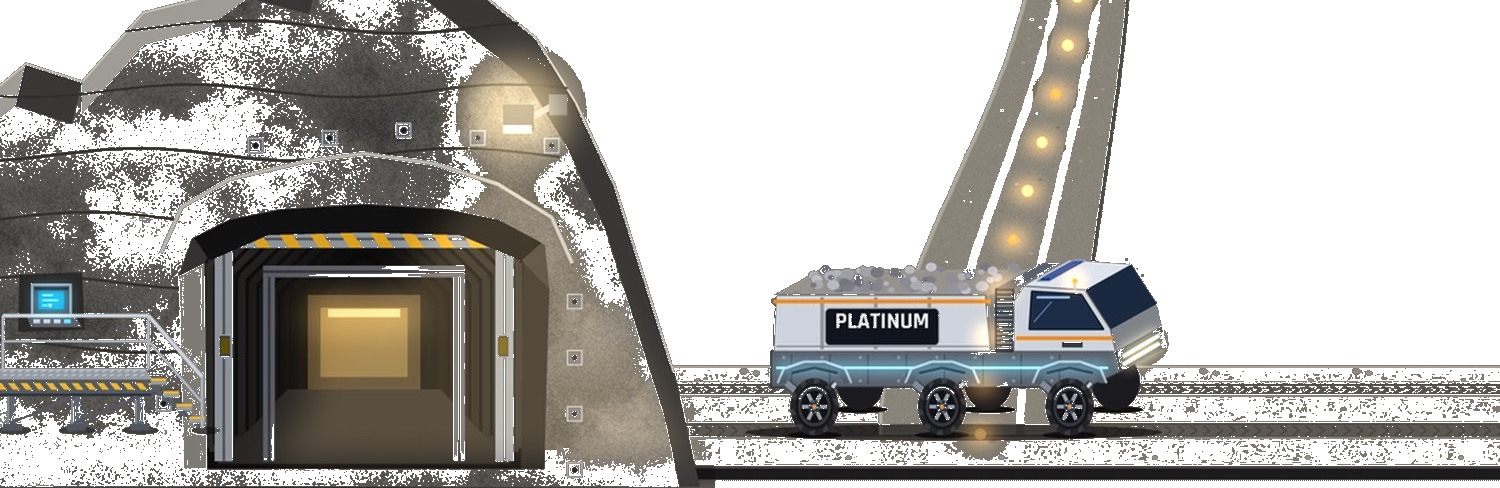
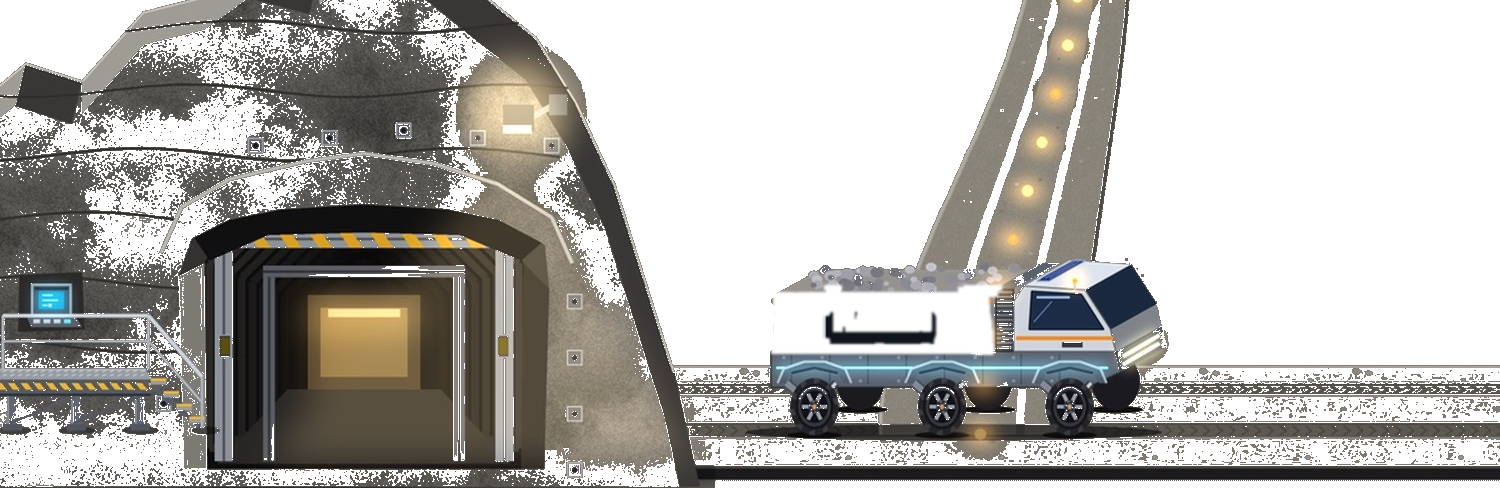
10/13/2026 - planet-stack - 10:40
Animate the mining truck down into the cave, out again, and into the Rover Bay.

Changed region(s): [[0.4907, 0.584, 0.6747, 0.7377]]

diff --git a/preview/game.js b/preview/game.js
@@ -465,7 +465,7 @@ function drawStop(o){const {s,f}=o;curStopA=0;ctx.save();
  ctx.scale(TS,TS);const atRest=s.kind==='dock'?Math.abs(f.a)<0.0004:true;   // no rotation: the static tower cache is valid while panning too
  if(BUILDINGS[s.bi].id==='mine')drawApprovedYard(f);   // behind the tower so the floor stays clear
  if(s.kind!=='dock')foundation();else dockPlinth();
- if(s.kind==='dock')drawDock(s.bi,atRest);else{const n=floorsBuilt(s.bi);if(n===0)drawSite(s.bi);else drawTower(s.bi,n,atRest);if(BUILDINGS[s.bi].id==='mine'&&!(YARD.complete&&YARD.naturalWidth))drawMineForeground(f)}
+ if(s.kind==='dock')drawDock(s.bi,atRest);else{const n=floorsBuilt(s.bi);if(n===0)drawSite(s.bi);else drawTower(s.bi,n,atRest);if(BUILDINGS[s.bi].id==='mine')drawYardTruck()}
  ctx.restore()}
 function label(x,y,txt,col,size){ctx.font=`700 ${size}px Inter,system-ui,-apple-system,sans-serif`;ctx.textAlign='center';ctx.textBaseline='middle';ctx.fillStyle='rgba(0,0,0,.55)';ctx.fillText(txt,x,y+1);ctx.fillStyle=col;ctx.fillText(txt,x,y)}
 function rr(c,x,y,w,h,r){c.beginPath();c.moveTo(x+r,y);c.arcTo(x+w,y,x+w,y+h,r);c.arcTo(x+w,y+h,x,y+h,r);c.arcTo(x,y+h,x,y,r);c.arcTo(x,y,x+w,y,r);c.closePath()}
@@ -665,13 +665,26 @@ function drawMineYard(){
  const lg=ctx.createRadialGradient(FG.tunnel+150,-16,6,FG.tunnel+140,-8,110);
  lg.addColorStop(0,'rgba(255,176,80,.42)');lg.addColorStop(1,'rgba(255,176,80,0)');
  ctx.fillStyle=lg;ctx.fillRect(FG.tunnel+40,-90,210,100)}
-const YARD=new Image();YARD.src='art/moon/mine/scene/mine_yard.png?v=0015';
+const YARD=new Image();YARD.src='art/moon/mine/scene/mine_yard.png?v=1032';
+function yardPt(ix,iy){const w=560,h=w*(YARD.naturalHeight||488)/(YARD.naturalWidth||1500);return{x:-300+ix/1500*w,y:6+iy/(YARD.naturalHeight||488)*h}}
 function drawApprovedYard(f){if(!(YARD.complete&&YARD.naturalWidth))return;
  const par=(f.x-195)*(FG.par-1)/TS;
  ctx.save();ctx.translate(par,0);
  const w=560,h=w*YARD.naturalHeight/YARD.naturalWidth;
- ctx.drawImage(YARD,-300,6,w,h);   // cave left, truck and lamps on the ground, under the floor
+ ctx.drawImage(YARD,-300,6,w,h);   // cave left, lamps on the ground, under the floor. The truck is animated, not baked in.
  ctx.restore()}
+// One truck: leaves the Rover Bay door, drives down into the cave, vanishes, comes back out, drives into the bay.
+function drawYardTruck(){if(!S.f.rover||!S.f.rover.built||!ok('truck_pt_drive'))return;
+ const {n,c}=truckClock(),kind=truckKind(n),M=yardPt(240,360),D={x:72,y:-2};
+ let x,y,sc,al,flip,frn,key;
+ if(c<2.6){const t=easeInOutCubic(c/2.6);x=D.x+(M.x-D.x)*t;y=D.y+(M.y-D.y)*t;sc=0.62+(1-0.62)*t;al=1;flip=1;key='truck_'+kind+'_drive';frn=Math.floor(c*12)%8}
+ else if(c<3.6){const t=c-2.6;x=M.x+6*t;y=M.y+12*t;sc=1-0.65*t;al=1-t;flip=1;key=ok('rover_tunnel_'+kind)?'rover_tunnel_'+kind:'truck_'+kind+'_drive';frn=ok('rover_tunnel_'+kind)?Math.min(7,Math.floor(t*8)):Math.floor(c*12)%8}
+ else if(c<5.0)return;
+ else if(c<6.1){const t=(c-5)/1.1;x=M.x+6*(1-t);y=M.y+12*(1-t);sc=0.35+0.65*t;al=Math.min(1,t*1.4);flip=0;key=ok('rover_tunnel_'+kind)?'rover_tunnel_'+kind:'truck_'+kind+'_drive';frn=ok('rover_tunnel_'+kind)?8+Math.min(7,Math.floor(t*8)):Math.floor(c*12)%8}
+ else{const t=easeInOutCubic(Math.min(1,(c-6.1)/2.1));x=M.x+(D.x-M.x)*t;y=M.y+(D.y-M.y)*t;sc=1-(1-0.62)*t;al=t>0.9?Math.max(0,1-(t-0.9)/0.1):1;flip=0;key='truck_'+kind+'_drive';frn=Math.floor(c*12)%8}
+ ctx.save();ctx.translate(x,y);ctx.scale((flip?-1:1)*sc,sc);ctx.globalAlpha=Math.max(0,al);
+ ctx.fillStyle='rgba(0,0,0,.35)';ctx.beginPath();ctx.ellipse(flip?-40:46,2,28,3.2,0,0,7);ctx.fill();
+ spr(ctx,key,frn,0,0);ctx.restore()}
 function drawMineForeground(f){if(YARD.complete&&YARD.naturalWidth)return;if(!ok('tunnel_back'))return;const par=(f.x-195)*(FG.par-1)/TS,dt=Math.min(0.1,Math.max(0,T-fgLast));fgLast=T;
  ctx.save();ctx.translate(par,FG.y);ctx.scale(FG.s,FG.s);
  let r=null;if(S.f.rover.workers>0&&BAYROUTE)r=roverState();

diff --git a/qa/game.js b/qa/game.js
@@ -465,7 +465,7 @@ function drawStop(o){const {s,f}=o;curStopA=0;ctx.save();
  ctx.scale(TS,TS);const atRest=s.kind==='dock'?Math.abs(f.a)<0.0004:true;   // no rotation: the static tower cache is valid while panning too
  if(BUILDINGS[s.bi].id==='mine')drawApprovedYard(f);   // behind the tower so the floor stays clear
  if(s.kind!=='dock')foundation();else dockPlinth();
- if(s.kind==='dock')drawDock(s.bi,atRest);else{const n=floorsBuilt(s.bi);if(n===0)drawSite(s.bi);else drawTower(s.bi,n,atRest);if(BUILDINGS[s.bi].id==='mine'&&!(YARD.complete&&YARD.naturalWidth))drawMineForeground(f)}
+ if(s.kind==='dock')drawDock(s.bi,atRest);else{const n=floorsBuilt(s.bi);if(n===0)drawSite(s.bi);else drawTower(s.bi,n,atRest);if(BUILDINGS[s.bi].id==='mine')drawYardTruck()}
  ctx.restore()}
 function label(x,y,txt,col,size){ctx.font=`700 ${size}px Inter,system-ui,-apple-system,sans-serif`;ctx.textAlign='center';ctx.textBaseline='middle';ctx.fillStyle='rgba(0,0,0,.55)';ctx.fillText(txt,x,y+1);ctx.fillStyle=col;ctx.fillText(txt,x,y)}
 function rr(c,x,y,w,h,r){c.beginPath();c.moveTo(x+r,y);c.arcTo(x+w,y,x+w,y+h,r);c.arcTo(x+w,y+h,x,y+h,r);c.arcTo(x,y+h,x,y,r);c.arcTo(x,y,x+w,y,r);c.closePath()}
@@ -665,13 +665,26 @@ function drawMineYard(){
  const lg=ctx.createRadialGradient(FG.tunnel+150,-16,6,FG.tunnel+140,-8,110);
  lg.addColorStop(0,'rgba(255,176,80,.42)');lg.addColorStop(1,'rgba(255,176,80,0)');
  ctx.fillStyle=lg;ctx.fillRect(FG.tunnel+40,-90,210,100)}
-const YARD=new Image();YARD.src='art/moon/mine/scene/mine_yard.png?v=0015';
+const YARD=new Image();YARD.src='art/moon/mine/scene/mine_yard.png?v=1032';
+function yardPt(ix,iy){const w=560,h=w*(YARD.naturalHeight||488)/(YARD.naturalWidth||1500);return{x:-300+ix/1500*w,y:6+iy/(YARD.naturalHeight||488)*h}}
 function drawApprovedYard(f){if(!(YARD.complete&&YARD.naturalWidth))return;
  const par=(f.x-195)*(FG.par-1)/TS;
  ctx.save();ctx.translate(par,0);
  const w=560,h=w*YARD.naturalHeight/YARD.naturalWidth;
- ctx.drawImage(YARD,-300,6,w,h);   // cave left, truck and lamps on the ground, under the floor
+ ctx.drawImage(YARD,-300,6,w,h);   // cave left, lamps on the ground, under the floor. The truck is animated, not baked in.
  ctx.restore()}
+// One truck: leaves the Rover Bay door, drives down into the cave, vanishes, comes back out, drives into the bay.
+function drawYardTruck(){if(!S.f.rover||!S.f.rover.built||!ok('truck_pt_drive'))return;
+ const {n,c}=truckClock(),kind=truckKind(n),M=yardPt(240,360),D={x:72,y:-2};
+ let x,y,sc,al,flip,frn,key;
+ if(c<2.6){const t=easeInOutCubic(c/2.6);x=D.x+(M.x-D.x)*t;y=D.y+(M.y-D.y)*t;sc=0.62+(1-0.62)*t;al=1;flip=1;key='truck_'+kind+'_drive';frn=Math.floor(c*12)%8}
+ else if(c<3.6){const t=c-2.6;x=M.x+6*t;y=M.y+12*t;sc=1-0.65*t;al=1-t;flip=1;key=ok('rover_tunnel_'+kind)?'rover_tunnel_'+kind:'truck_'+kind+'_drive';frn=ok('rover_tunnel_'+kind)?Math.min(7,Math.floor(t*8)):Math.floor(c*12)%8}
+ else if(c<5.0)return;
+ else if(c<6.1){const t=(c-5)/1.1;x=M.x+6*(1-t);y=M.y+12*(1-t);sc=0.35+0.65*t;al=Math.min(1,t*1.4);flip=0;key=ok('rover_tunnel_'+kind)?'rover_tunnel_'+kind:'truck_'+kind+'_drive';frn=ok('rover_tunnel_'+kind)?8+Math.min(7,Math.floor(t*8)):Math.floor(c*12)%8}
+ else{const t=easeInOutCubic(Math.min(1,(c-6.1)/2.1));x=M.x+(D.x-M.x)*t;y=M.y+(D.y-M.y)*t;sc=1-(1-0.62)*t;al=t>0.9?Math.max(0,1-(t-0.9)/0.1):1;flip=0;key='truck_'+kind+'_drive';frn=Math.floor(c*12)%8}
+ ctx.save();ctx.translate(x,y);ctx.scale((flip?-1:1)*sc,sc);ctx.globalAlpha=Math.max(0,al);
+ ctx.fillStyle='rgba(0,0,0,.35)';ctx.beginPath();ctx.ellipse(flip?-40:46,2,28,3.2,0,0,7);ctx.fill();
+ spr(ctx,key,frn,0,0);ctx.restore()}
 function drawMineForeground(f){if(YARD.complete&&YARD.naturalWidth)return;if(!ok('tunnel_back'))return;const par=(f.x-195)*(FG.par-1)/TS,dt=Math.min(0.1,Math.max(0,T-fgLast));fgLast=T;
  ctx.save();ctx.translate(par,FG.y);ctx.scale(FG.s,FG.s);
  let r=null;if(S.f.rover.workers>0&&BAYROUTE)r=roverState();

diff --git a/preview/index.html b/preview/index.html
@@ -95,4 +95,4 @@ html,body{margin:0;position:fixed;inset:0;overflow:hidden;background:#05070f;col
 <div id="toast"></div><div id="shade"></div><div id="sheet"></div>
 <div id="modal"><div class="card"><div style="font:700 20px var(--num)">Welcome back!</div><div id="wbtext" style="color:var(--dim);margin-top:6px"></div><div class="big" id="wbamt"></div><button class="up" id="wbok">COLLECT</button></div></div>
 <div id="load"><h1>PLANET STACK</h1><div class="bar"><i id="lbar"></i></div></div>
-<script>if(location.pathname.includes("/preview/")||location.pathname.includes("/qa/")||location.port==="8080"){const t=document.createElement("div");t.id="pvtag";t.textContent=(location.pathname.includes("/preview/")&&!location.pathname.includes("/qa/")?"PREVIEW":"QA")+" · 00:30";t.style.cssText="position:fixed;right:calc(env(safe-area-inset-right) + 10px);bottom:calc(env(safe-area-inset-bottom) + 14px);z-index:20;pointer-events:none;font:700 10px/1 system-ui,sans-serif;letter-spacing:1.5px;color:#ffb347;background:rgba(13,20,36,.75);border:1px solid rgba(255,179,71,.6);border-radius:6px;padding:4px 6px";document.body.appendChild(t)}</script><script src="game.js?v=0030"></script></body></html>
+<script>if(location.pathname.includes("/preview/")||location.pathname.includes("/qa/")||location.port==="8080"){const t=document.createElement("div");t.id="pvtag";t.textContent=(location.pathname.includes("/preview/")&&!location.pathname.includes("/qa/")?"PREVIEW":"QA")+" · 10:40";t.style.cssText="position:fixed;right:calc(env(safe-area-inset-right) + 10px);bottom:calc(env(safe-area-inset-bottom) + 14px);z-index:20;pointer-events:none;font:700 10px/1 system-ui,sans-serif;letter-spacing:1.5px;color:#ffb347;background:rgba(13,20,36,.75);border:1px solid rgba(255,179,71,.6);border-radius:6px;padding:4px 6px";document.body.appendChild(t)}</script><script src="game.js?v=1040"></script></body></html>

diff --git a/qa/index.html b/qa/index.html
@@ -95,4 +95,4 @@ html,body{margin:0;position:fixed;inset:0;overflow:hidden;background:#05070f;col
 <div id="toast"></div><div id="shade"></div><div id="sheet"></div>
 <div id="modal"><div class="card"><div style="font:700 20px var(--num)">Welcome back!</div><div id="wbtext" style="color:var(--dim);margin-top:6px"></div><div class="big" id="wbamt"></div><button class="up" id="wbok">COLLECT</button></div></div>
 <div id="load"><h1>PLANET STACK</h1><div class="bar"><i id="lbar"></i></div></div>
-<script>if(location.pathname.includes("/preview/")||location.pathname.includes("/qa/")||location.port==="8080"){const t=document.createElement("div");t.id="pvtag";t.textContent=(location.pathname.includes("/preview/")&&!location.pathname.includes("/qa/")?"PREVIEW":"QA")+" · 00:30";t.style.cssText="position:fixed;right:calc(env(safe-area-inset-right) + 10px);bottom:calc(env(safe-area-inset-bottom) + 14px);z-index:20;pointer-events:none;font:700 10px/1 system-ui,sans-serif;letter-spacing:1.5px;color:#ffb347;background:rgba(13,20,36,.75);border:1px solid rgba(255,179,71,.6);border-radius:6px;padding:4px 6px";document.body.appendChild(t)}</script><script src="game.js?v=0030"></script></body></html>
+<script>if(location.pathname.includes("/preview/")||location.pathname.includes("/qa/")||location.port==="8080"){const t=document.createElement("div");t.id="pvtag";t.textContent=(location.pathname.includes("/preview/")&&!location.pathname.includes("/qa/")?"PREVIEW":"QA")+" · 10:40";t.style.cssText="position:fixed;right:calc(env(safe-area-inset-right) + 10px);bottom:calc(env(safe-area-inset-bottom) + 14px);z-index:20;pointer-events:none;font:700 10px/1 system-ui,sans-serif;letter-spacing:1.5px;color:#ffb347;background:rgba(13,20,36,.75);border:1px solid rgba(255,179,71,.6);border-radius:6px;padding:4px 6px";document.body.appendChild(t)}</script><script src="game.js?v=1040"></script></body></html>

diff --git a/preview/NEXT_PREVIEW.md b/preview/NEXT_PREVIEW.md
@@ -197,6 +197,10 @@
 - The ship side of the pad is labeled TAKEOFF & LANDING. That is the old tank farm. It is not a new station and it does not change save data or prices.
 - A mule wheels a crate from that platform across to the CARGO DOCK. The crane still loads only what is on the pad.
 
+## r23 (10:40 PT) — mining truck drives the cave
+- The still truck is off the yard sheet. The 3D truck leaves the Rover Bay, drives down into the cave, disappears, comes back out, and drives into the bay. About an 8 second loop. No price changes.
+
+
 
 
 

diff --git a/qa/NEXT_PREVIEW.md b/qa/NEXT_PREVIEW.md
@@ -197,6 +197,10 @@
 - The ship side of the pad is labeled TAKEOFF & LANDING. That is the old tank farm. It is not a new station and it does not change save data or prices.
 - A mule wheels a crate from that platform across to the CARGO DOCK. The crane still loads only what is on the pad.
 
+## r23 (10:40 PT) — mining truck drives the cave
+- The still truck is off the yard sheet. The 3D truck leaves the Rover Bay, drives down into the cave, disappears, comes back out, and drives into the bay. About an 8 second loop. No price changes.
+
+
 
 
 
